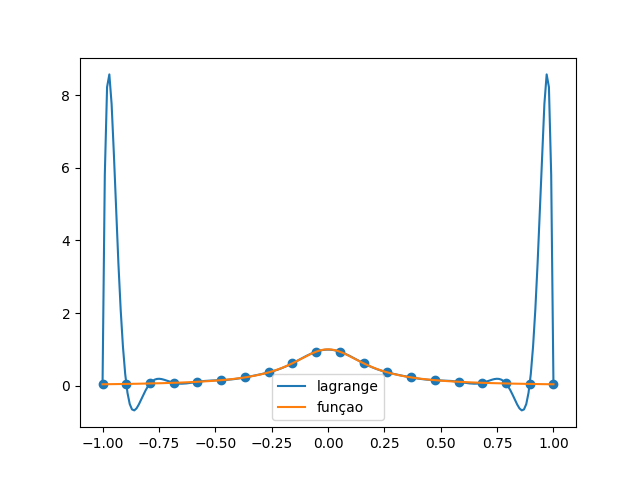
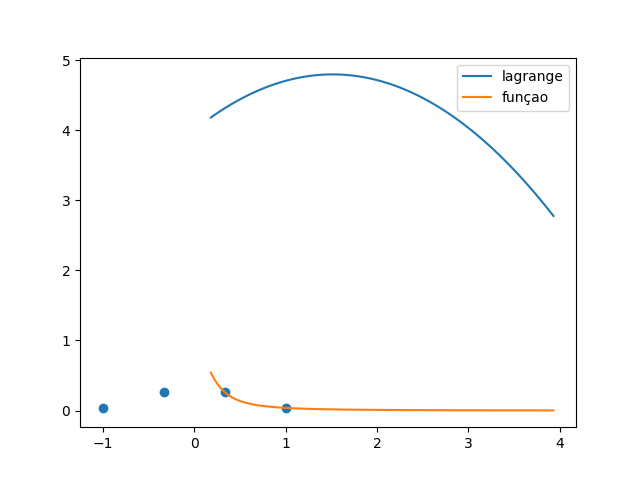
Questões Lagrange 13 - 18 | Trabalho 2

diff --git a/src/langrange.py b/src/langrange.py
@@ -1,14 +1,18 @@
 from matplotlib import pyplot as plt
 import numpy as np
+import math
 
 def lagrange(x, y):
     # a eq do polinomio de lagrange
     n = len(x)
-    eq = ''
     if n == len(y):
+        eq = ''
+        c = ''
         for k in range(n):
             number = '*'.join([f'(x{-xi:+})' for i, xi in enumerate(x) if i != k])
             denom = '*'.join([f'({x[k]}{-xi:+})' for i, xi in enumerate(x) if i != k])
+            c = f'{y[k]:+}/({denom})' # coeficientes do polinominio de lagrange
+            print(eval(c))
             eq += f'{y[k]:+}*({number})/({denom})'
         return eq
     else:
@@ -16,16 +20,17 @@ def lagrange(x, y):
 
 if __name__ == '__main__':
 
-    x = [1, 2, 3, 3.2, 4.1, 5.7]  # coordenadas do ponto x
-    y = [2, 5, 1, 2, 1, 10]  # coordenadas do ponto y
+    x = [0.016, 0.558, 0.946, 1.206, 1.562, 2.089, 2.65, 2.806, 3.091, 3.642, 3.899, 4.601, 4.853]  # coordenadas do ponto x
+    y = [4.016, 4.519, 4.781, 4.886, 4.919, 4.723, 4.238, 4.067, 3.732, 3.078, 2.806, 2.301, 2.225]  # coordenadas do ponto y
 
-    eq = lagrange(x,y)
+    #eq = lagrange(x,y)
 
     # Fenomeno de Runge
     def f(x):
-        return 1 / (1 + 25 * x ** 2)
-    num = 20
-    x2 = [-1 + (2/(num-1)) * i for i in range(num)]
+        return 4 + math.sin(x)-((x ** 2) / 30)
+    num = 10
+    #x2 = [-1 + (2/(num-1)) * i for i in range(num)]
+    x2 = [0.148 , 0.483, 0.678, 1.083, 1.403, 1.8, 1.974, 2.311, 2.64, 2.978, 3.223, 3.573, 3.762, 3.992, 4.372, 4.742, 4.945, 5.328, 5.499, 5.922, 6.173, 6.514, 6.826]
     y2 = [f(i) for i in x2]
     eq2 = lagrange(x2, y2)
 
@@ -35,10 +40,10 @@ if __name__ == '__main__':
     print('p(x) = ', eq2, '\n')
 
     # plot do grafico
-    t = np.linspace(-1, 1, 200)
-
-    plt.plot(t, subs(t), label='lagrange')
-    plt.plot(t, f(t), label='funçao')
-    plt.scatter(x2, y2)
-    plt.legend()
-    plt.savefig('langrange.png')
+    # t = np.linspace(0.184, 3.929, 100)
+    #
+    # plt.plot(t, subs(t), label='lagrange')
+    # plt.plot(t, f(t), label='funçao')
+    # plt.scatter(x2, y2)
+    # plt.legend()
+    # plt.savefig('langrange.png')
